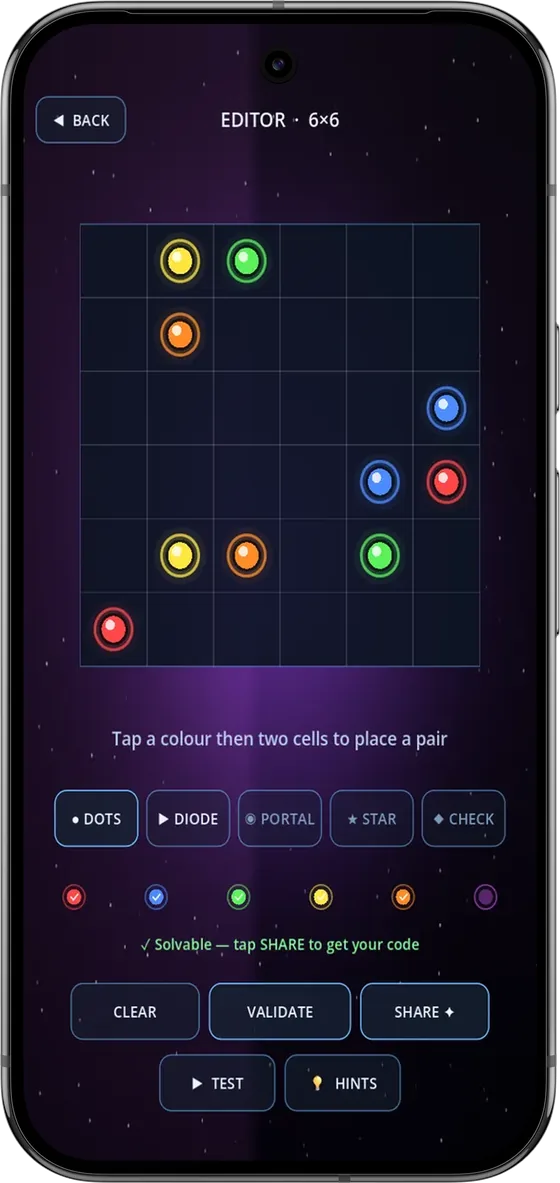
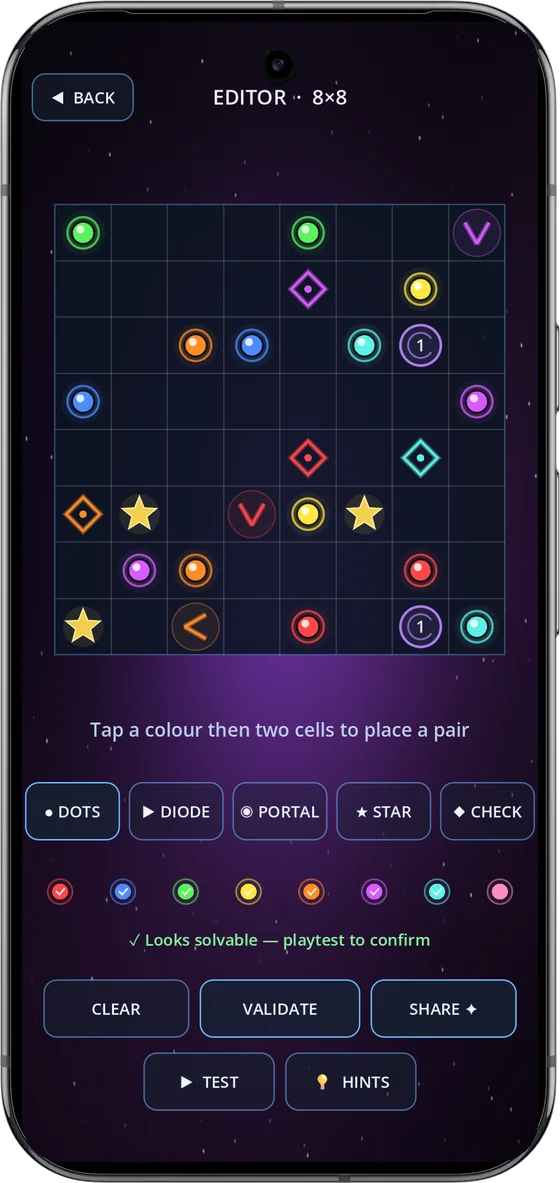
Circuit Trace: new editor mockup with every tool, updated editor copy

diff --git a/games/circuit-trace.html b/games/circuit-trace.html
@@ -521,7 +521,7 @@
             </div>
             <div class="editor-phone">
                 <div class="phone-frame">
-                    <img src="../assets/screen-ct-4.webp" alt="Circuit Trace Puzzle Editor — 6×6 grid with dots, diodes and a share button" width="280" height="606" loading="lazy" decoding="async">
+                    <img src="../assets/screen-ct-4.webp" alt="Circuit Trace Puzzle Editor — 8×8 puzzle with diodes, portals, stars and checkpoints" width="280" height="606" loading="lazy" decoding="async">
                 </div>
             </div>
         </div>
@@ -590,7 +590,7 @@
             <div class="feat-card a-fade">
                 <div class="feat-ico">🎨</div>
                 <h3 data-i18n="feat.editor.h">Puzzle Editor · share codes</h3>
-                <p data-i18n="feat.editor.p">Build your own 5×5 to 8×8 puzzles with dots and diodes. Save up to 5 in your library. Share them with friends via short codes (CT-XXXXX-XXXXX-…) — paste a code to play what someone else designed.</p>
+                <p data-i18n="feat.editor.p">Build your own 5×5 to 8×8 puzzles with diodes, portals, stars and checkpoints — every tool unlocked. Save up to 5 in your library. Share them with friends via short codes (CT-XXXXX-XXXXX-…) — paste a code to play what someone else designed.</p>
             </div>
             <div class="feat-card a-fade">
                 <div class="feat-ico">⚡</div>
@@ -984,7 +984,7 @@
             'feat.title':      '600+ puzzles.<br>Six level packs.<br>Build your own.',
             'feat.sub':        'The main Circuit Trace campaign introduces mechanics one sector at a time. Five more packs remix the formula — pure flow, one-way diodes, teleport portals, a mastery arcade and the new Labyrinth with shaped boards and walls. Plus Endless, Expert preview, Daily, Weekly and Time Trial. And when you\'re done playing — build your own puzzles with the Puzzle Editor and share codes with friends.',
             'feat.editor.h':   'Puzzle Editor · share codes',
-            'feat.editor.p':   'Build your own 5×5 to 8×8 puzzles with dots and diodes. Save up to 5 in your library. Share them with friends via short codes (CT-XXXXX-XXXXX-…) — paste a code to play what someone else designed.',
+            'feat.editor.p':   'Build your own 5×5 to 8×8 puzzles with diodes, portals, stars and checkpoints — every tool unlocked. Save up to 5 in your library. Share them with friends via short codes (CT-XXXXX-XXXXX-…) — paste a code to play what someone else designed.',
             'editor.label':    'Build your own',
             'editor.title':    'Make puzzles.<br>Share codes.<br>Play what friends build.',
             'editor.sub':      'When you\'ve solved every campaign puzzle — don\'t stop. Open the Puzzle Editor and design your own. Place dots, add diodes, test instantly, and when it works: share a short code with anyone. They paste, they play, they send one back. Browse community puzzles and tutorials at <a href="https://circuittrace.app" target="_blank" rel="noopener" style="color:var(--fl);text-decoration:underline;text-underline-offset:3px">circuittrace.app</a>.',
@@ -1095,7 +1095,7 @@
             'feat.title':      '600+ puzzels.<br>Zes levelpakketten.<br>Bouw je eigen.',
             'feat.sub':        'De hoofdcampagne Circuit Trace introduceert mechanismen één sector per keer. Vijf andere pakketten remixen de formule — pure flow, one-way diodes, teleport portals, een mastery arcade en het nieuwe Labyrinth met vormen en muren. Plus Endless, Expert preview, Daily, Weekly en Time Trial. En als je uitgespeeld bent — bouw je eigen puzzels met de Puzzle Editor en deel codes met vrienden.',
             'feat.editor.h':   'Puzzle Editor · deel codes',
-            'feat.editor.p':   'Bouw je eigen 5×5 tot 8×8 puzzels met punten en diodes. Bewaar er tot 5 in je bibliotheek. Deel ze met vrienden via korte codes (CT-XXXXX-XXXXX-…) — plak een code om iemand anders zijn ontwerp te spelen.',
+            'feat.editor.p':   'Bouw je eigen 5×5 tot 8×8 puzzels met diodes, portals, sterren en checkpoints — alle tools direct beschikbaar. Bewaar er tot 5 in je bibliotheek. Deel ze met vrienden via korte codes (CT-XXXXX-XXXXX-…) — plak een code om iemand anders zijn ontwerp te spelen.',
             'editor.label':    'Bouw je eigen',
             'editor.title':    'Maak puzzels.<br>Deel codes.<br>Speel wat vrienden bouwen.',
             'editor.sub':      'Als je elke campaign-puzzel hebt opgelost — stop dan niet. Open de Puzzle Editor en ontwerp je eigen puzzel. Zet punten, voeg diodes toe, test direct, en als het werkt: deel een korte code met wie je wil. Zij plakken, zij spelen, zij sturen er één terug. Bekijk community-puzzels en tutorials op <a href="https://circuittrace.app" target="_blank" rel="noopener" style="color:var(--fl);text-decoration:underline;text-underline-offset:3px">circuittrace.app</a>.',
